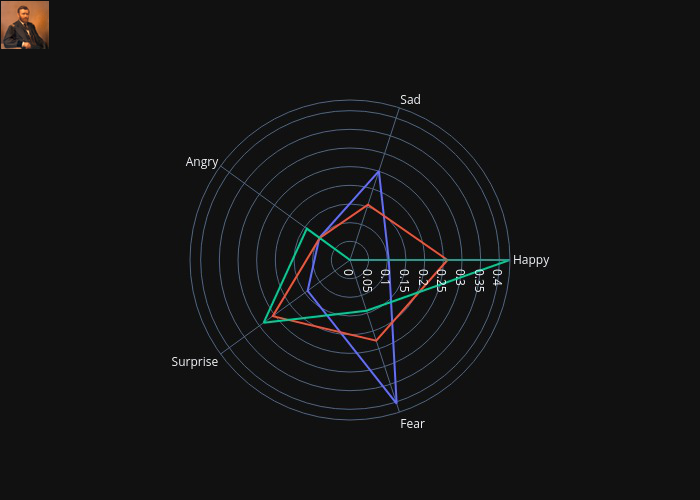
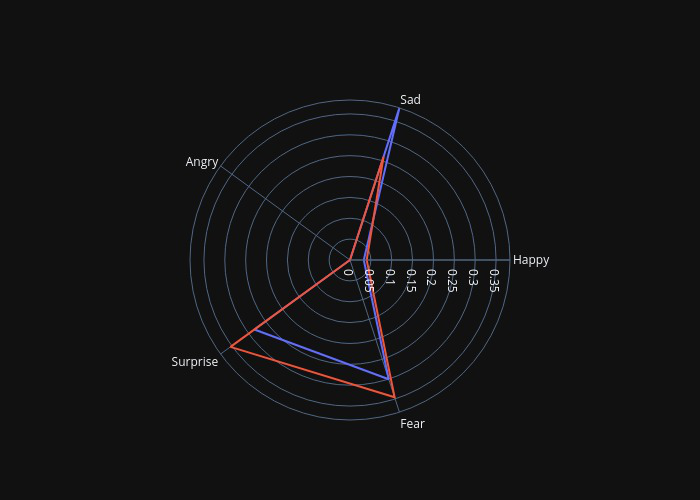
Tried image corona

diff --git a/twit-emote/main.py b/twit-emote/main.py
@@ -56,7 +56,10 @@ def create_radar_graph(handles: str) -> FileResponse:
         profile_url = twitter_api.GetUser(screen_name = handles[0]).profile_image_url
         profile_img = Image.open(requests.get(profile_url, stream=True).raw)
         profile_img = crop_circular(profile_img)
+
         profile_img.save(os.path.join('img', f'{handle}.png'))
+        profile_img = add_colored_corona(profile_img)
+        profile_img.save(os.path.join('img', f'{handle}-circled.png'))
 
         happy, angry, surprise, sad, fear = 0.0, 0.0, 0.0, 0.0, 0.0
         for status in statuses:
@@ -78,34 +81,69 @@ def create_radar_graph(handles: str) -> FileResponse:
                 'Sad': sad / sum_emotions, 
                 'Fear': fear / sum_emotions
             }
-
             emotions_collector.append(emotions)
+
         except ZeroDivisionError:
             continue
 
     create_plot(filename, emotions_collector)
 
-    radar = Image.open(os.path.join('img', filename))
+    radar_plot = Image.open(os.path.join('img', filename))
 
-    radar.paste(profile_img, (1, 1))
-    radar.save(os.path.join('img', 'radar.png'))
+    # radar_plot.paste(profile_img, (1, 1))
+    radar_plot = paste_keeping_transparency(radar_plot, profile_img)
+    radar_plot.save(os.path.join('img', 'radar.png'))
 
-    return FileResponse(os.path.join('img', filename))
+    return FileResponse(os.path.join('img', 'radar.png'))
 
+
+def add_colored_corona(
+    profile_img: Image.Image, 
+    num_corona_px: int = 3,
+    color = (100, 200, 0)
+) -> Image.Image:
+    profile_img_arr = np.array(profile_img)
+    orig_width, orig_height, orig_channels = profile_img_arr.shape
+
+    new_dims = (orig_height + num_corona_px, orig_width + num_corona_px, orig_channels)
+    radius = (orig_height + num_corona_px) // 2
+    center = (radius, radius)
+
+    # blank = Image.fromarray(np.zeros(new_dims, np.uint8))
+    blank = np.zeros(new_dims, np.uint8)
+    circled = cv2.circle(blank, center, radius, color, radius)
+    print(circled)
+    # circled = paste_keeping_transparency(circled, profile_img)
+    return Image.fromarray(circled)
+    # print(profile_img_arr.shape)
+    # return profile_img
+
+
+def paste_keeping_transparency(
+    background: Image.Image, 
+    pasted: Image.Image
+) -> Image.Image:
+    background = np.array(background)
+    pasted = np.array(pasted)
+    
+    x_offset, y_offset = 0, 0
+    y1, y2 = y_offset, y_offset + pasted.shape[0]
+    x1, x2 = x_offset, x_offset + pasted.shape[1]
+
+    alpha_pasted = pasted[:, :, 3] / 255.0
+    alpha_background = 1.0 - alpha_pasted
+
+    for channel in range(0, 3):
+        background[y1:y2, x1:x2, channel] = (
+            alpha_pasted * pasted[:, :, channel] + 
+            alpha_background * background[y1:y2, x1:x2, channel]
+        )
+
+    return Image.fromarray(background)
 
 
 
 def crop_circular(img: Image.Image) -> Image.Image:
-    # background = Image.new('RGBA', (50, 50), color = 0)
-    # background = cv2.circle(
-    #     np.array(background), 
-    #     (25, 25), 
-    #     25, 
-    #     'red', 
-    #     30
-    # )
-    # Center coordinates
-
     background = np.zeros((64, 64, 3), np.uint8)
     center_coordinates = (32, 32)
     
@@ -149,12 +187,13 @@ def crop_circular(img: Image.Image) -> Image.Image:
     result = cv2.cvtColor(img, cv2.COLOR_BGR2BGRA)
     result[:, :, 3] = mask[:, :, 0]
 
-    result = Image.fromarray(result)
-    ImageDraw.floodfill(result, (1, 1), (255, 255, 0, 0))
+    # result = Image.fromarray(result)
+    # ImageDraw.floodfill(result, (1, 1), (255, 255, 0, 0))
 
-    # background = cv2.cvtColor(background, cv2.COLOR_BGR2BGRA)
-    # background[7:55, 7:55, :] = result
-    return result
+    background = cv2.cvtColor(background, cv2.COLOR_BGR2BGRA)
+    background[7:55, 7:55, :] = result
+    
+    return Image.fromarray(result)
 
 
 
